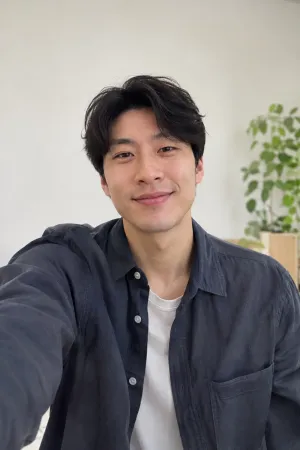
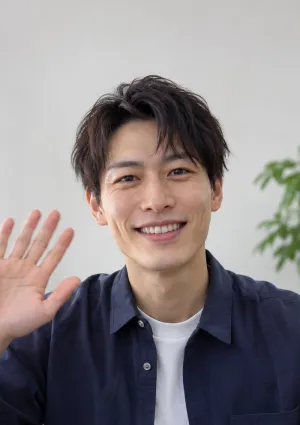
Site: the date plays out in stills that follow the scroll
Six frames of her and four of him (generated, fictional people), chosen by how
many seconds of the date have gone and matched to whose turn it is: a wave hello,
listening, thinking, talking, laughing, a wave goodbye.

diff --git a/site/index.html b/site/index.html
@@ -120,9 +120,13 @@
 
             <!-- Live date -->
             <div class="scr s-live" data-scr="1">
-              <div class="vid">
-                <img class="vid-a" decoding="async" src="assets/app/date-her-1.webp" alt="">
-                <img class="vid-b" decoding="async" src="assets/app/date-her-2.webp" alt="">
+              <div class="vid" id="lvVid">
+                <img class="fr on" decoding="async" src="assets/app/date-her-1.webp" alt="">
+                <img class="fr" decoding="async" src="assets/app/date-her-2.webp" alt="">
+                <img class="fr" decoding="async" src="assets/app/date-her-3.webp" alt="">
+                <img class="fr" decoding="async" src="assets/app/date-her-4.webp" alt="">
+                <img class="fr" decoding="async" src="assets/app/date-her-5.webp" alt="">
+                <img class="fr" decoding="async" src="assets/app/date-her-6.webp" alt="">
                 <video id="dateVideo" muted loop playsinline preload="none"></video>
               </div>
               <div class="scrim"></div>
@@ -130,7 +134,7 @@
                 <div class="lv-who"><b>Maya, 29</b><span>Brooklyn</span></div>
                 <div class="clk" id="lvClk"><svg viewBox="0 0 20 20"><circle cx="10" cy="10" r="7.6" class="clk-tr"/><circle cx="10" cy="10" r="7.6" class="clk-arc" id="lvArc" pathLength="100"/></svg><span id="lvNum">1:30</span></div>
               </div>
-              <div class="selfie"><img class="vid-a" decoding="async" src="assets/app/date-him-1.webp" alt=""><img class="vid-b" decoding="async" src="assets/app/date-him-2.webp" alt=""></div>
+              <div class="selfie" id="lvSelf"><img class="fr on" decoding="async" src="assets/app/date-him-1.webp" alt=""><img class="fr" decoding="async" src="assets/app/date-him-2.webp" alt=""><img class="fr" decoding="async" src="assets/app/date-him-3.webp" alt=""><img class="fr" decoding="async" src="assets/app/date-him-4.webp" alt=""></div>
               <p class="lv-pill"><svg viewBox="0 0 24 24"><path d="M12 3l7 3v5c0 5-3.5 8-7 10-3.500-2-7-5-7-10V6z"/><path d="M9 12l2 2 4-4"/></svg>Safety check on</p>
               <div class="turn">
                 <p class="eb">Question 1<span id="lvWho">Your turn</span></p>

diff --git a/site/tour.js b/site/tour.js
@@ -46,6 +46,21 @@ function initPhone() {
   const num = $('#lvNum'), arc = $('#lvArc'), clk = $('#lvClk');
   const who = $('#lvWho'), bars = [$('#lvYou'), $('#lvThem')], secs = [$('#lvYouS'), $('#lvThemS')];
   const video = $('#dateVideo'), chat = $('#chat');
+  // Stills from the date, picked by how many seconds have gone: [from second, picture number].
+  // You talk for the first thirty seconds, Maya for the next thirty, then you again.
+  const reel = (el, plan) => {
+    const frames = $$('.fr', el);
+    let cur = 0;
+    return (gone) => {
+      let next = 0;
+      for (const [from, n] of plan) if (gone >= from) next = n - 1;
+      if (next === cur) return;
+      frames.forEach((f, i) => { f.classList.toggle('was', i === cur); f.classList.toggle('on', i === next); });
+      cur = next;
+    };
+  };
+  const herReel = reel($('#lvVid'), [[0, 1], [9, 2], [30, 5], [39, 3], [60, 4], [80, 6]]);
+  const himReel = reel($('#lvSelf'), [[0, 1], [7, 2], [30, 3], [60, 2], [72, 4]]);
   const toggle = $('#motionToggle'), closeBg = $('#closeBg');
 
   let s0 = 0.8, s1 = 1.2, y0 = 0, y1 = 0; // the big slider: scale and centre line, at rest in the phone and lifted out of it
@@ -196,6 +211,7 @@ function initPhone() {
       clk.classList.toggle('low', left <= 30);
       const gone = Math.min(DATE_SECONDS - 1, DATE_SECONDS - left), mine = Math.floor(gone / TURN_SECONDS) % 2 === 0;
       const turnLeft = TURN_SECONDS - (gone % TURN_SECONDS);
+      herReel(DATE_SECONDS - left); himReel(DATE_SECONDS - left);
       who.textContent = mine ? 'Your turn' : 'Maya’s turn';
       bars[0].style.setProperty('--v', mine ? turnLeft / TURN_SECONDS : 0);
       bars[1].style.setProperty('--v', mine ? 0 : turnLeft / TURN_SECONDS);

diff --git a/site/tour.css b/site/tour.css
@@ -92,10 +92,11 @@
 /* live date */
 .s-live{background:#C9A99A}
 .vid{position:absolute;inset:0;overflow:hidden}
-.vid img,.selfie img{position:absolute;inset:0;width:100%;height:100%;object-fit:cover;object-position:50% 30%}
-.vid-b{opacity:0;animation:talk 7s ease-in-out infinite}
-.selfie .vid-b{animation-delay:-3.500s}
-@keyframes talk{0%,38%{opacity:0}46%,84%{opacity:1}92%,100%{opacity:0}}
+.vid img,.selfie img{position:absolute;inset:0;width:100%;height:100%;object-fit:cover;object-position:50% 0}
+/* frames of the date: the one in play fades in over the one before it */
+.fr{opacity:0;transition:opacity .5s linear}
+.fr.was{opacity:1;z-index:1;transition:none}
+.fr.on{opacity:1;z-index:2}
 .vid video{position:absolute;inset:0;width:100%;height:100%;object-fit:cover;opacity:0;transition:opacity .4s}
 .vid video.ready{opacity:1}
 .scrim{position:absolute;inset:0;background:linear-gradient(180deg,rgba(0,0,0,.28) 0,transparent 22%,transparent 52%,rgba(0,0,0,.35) 100%)}
@@ -328,3 +329,4 @@
 /* a card face down: the paintings stay a surprise */
 .sets-row li i{position:absolute;inset:7%;border-radius:6%/4.3%;border:1px dashed rgba(27,23,25,.22);background:url(assets/app/BrandFruit.webp) center/38% no-repeat}
 @media (min-width:901px){.shots-row{grid-template-columns:repeat(3,minmax(0,1fr));max-width:980px}}
+.vid,.selfie{isolation:isolate}
